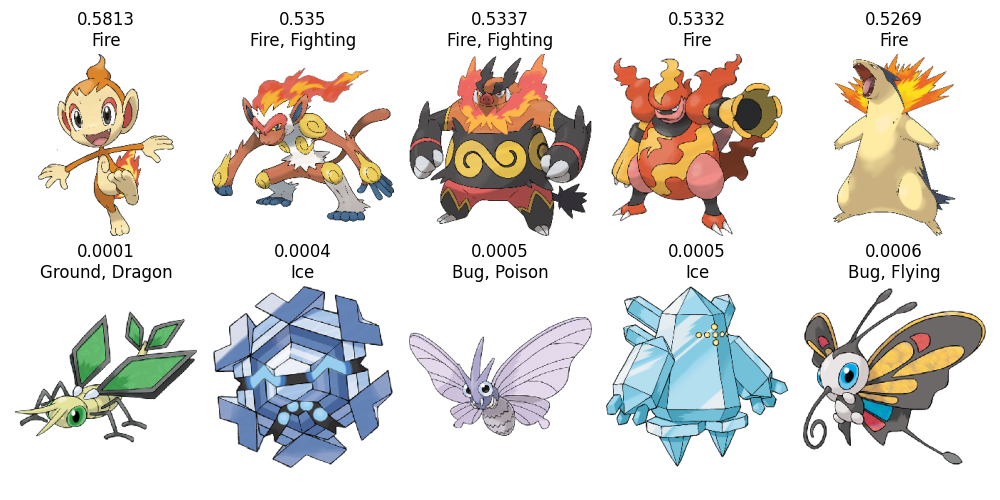
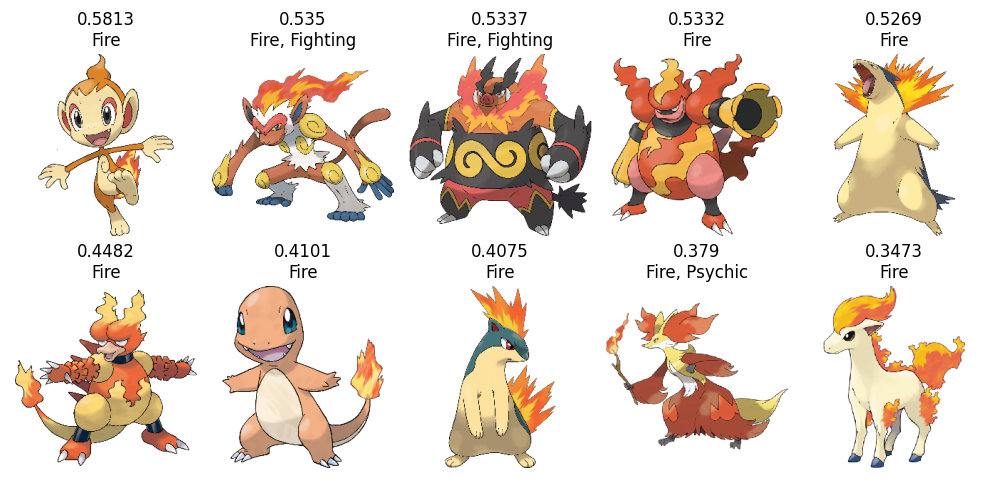
done

Changed region(s): [[0.0, 0.48, 0.992, 0.93]]

diff --git a/figures.py b/figures.py
@@ -45,7 +45,9 @@ def peek_at_classes():
     preds = pd.read_csv(PREDS_PATH)
 
     for cls in classes:
-        cls_preds = pd.concat((preds[cls].sort_values()[-5:][::-1], preds[cls].sort_values()[:5]))
+
+        # cls_preds = pd.concat((preds[cls].sort_values()[-5:][::-1], preds[cls].sort_values()[:5]))
+        cls_preds = preds[cls].sort_values()[-10:][::-1]
         fig, axs = plt.subplots(2, 5, figsize=(10, 5))
 
         for (idx, prob), ax in zip(cls_preds.iteritems(), axs.flatten()):
@@ -60,32 +62,30 @@ def peek_at_classes():
         plt.savefig(os.path.join("figs", f"{cls}_preds_preview.png"))
 
 
-def peek_at_pokemon():
-    pkm_idxs = [0, 3, 6, 24]  # pikachu
+def peek_at_pokemons():
+    pkm_idxs, cls = [170, 256, 53, 86, 115], "Water"
+    # pkm_idxs, cls = [387, 125, 76, 145], "Fire"
     dataset = PokemonDataset()
 
-    for pkm_idx in pkm_idxs:
+    fig, axs = plt.subplots(2, len(pkm_idxs), figsize=(14, 6))
+
+    for idx, pkm_idx in enumerate(pkm_idxs):
         pkm_img, pkm_labs = dataset[pkm_idx]
         pkm_labs = ', '.join([l for l in pkm_labs if l])
         pred = pd.read_csv(PREDS_PATH).iloc[pkm_idx]
         pred_clses = pred.keys()[1:]
         pred_vals = pred.to_numpy()[1:]
 
-        fig, axs = plt.subplots(1, 2)
-        axs[0].imshow(pkm_img)
-        axs[0].set_title(pkm_labs)
-        axs[0].axis('off')
+        axs[0, idx].imshow(pkm_img)
+        axs[0, idx].set_title(pkm_labs)
+        axs[0, idx].axis('off')
 
-        axs[1].barh(pred_clses, pred_vals, align='center')
-        axs[1].set_yticks(np.arange(len(pred_clses)))
-        axs[1].set_yticklabels(pred_clses)
+        axs[1, idx].barh(pred_clses, pred_vals, align='center')
+        axs[1, idx].set_yticks(np.arange(len(pred_clses)))
+        axs[1, idx].set_yticklabels(pred_clses)
 
-        fig.tight_layout()
-        plt.savefig(os.path.join("figs", f"{pkm_idx}_preview.png"))
+    fig.tight_layout()
+    plt.savefig(os.path.join("figs", f"{cls}_pokemons_preview.png"))
 
-# clean_pokedex()
-# dataset_preview()
-# print(metrics)
-# count_type_reprs()
-# count_single_types()
-peek_at_pokemon()
+
+peek_at_pokemons()

diff --git a/README.md b/README.md
@@ -28,18 +28,17 @@ some of our Pocket Monsters have  subtle features which could give a human hint 
 
 Random chance of guessing is around 9%  while CLIP achieves 25%, what we calculated as average of accuracies among each case of one (20,2%) and two-types (27,6%) pocket monsters.
 
-For each class we checked, which Pokemons are most and least representative from perspective of CLIP.
-Here is example for ice type:
+We checked what CLIP perceives as most and least representative for each type. Additionaly we took a closer look at specific Pokemons odds. 
+Here is an example for grass type:
+![](figs/Grass_preds_preview.png?raw=true)
+It looks like it have solid understanding what these concepts are as it produces reasonable and confident predictions.
 
-![dataset_preview](figs/Ice_preds_preview.png?raw=true)
+For the fire type, situation is a bit different. Although it recognizes well, it is significantly less confident what we see as strange because of obvious flame marks.
+![](figs/Fire_preds_preview.png?raw=true)
+![](figs/Fire_pokemons_preview.png?raw=true)
 
-and for fire:
+With the water type CLIP failed to associate any Pokemon:
+![](figs/Water_preds_preview.png?raw=true)
+![](figs/Water_pokemons_preview.png?raw=true)
 
-![dataset_preview](figs/Fire_preds_preview.png?raw=true)
-
-Additionaly, we peeked at specific Pokemons - what odds for belonging CLIP sees:
-
-![dataset_preview](figs/0_preview.png?raw=true)
-![dataset_preview](figs/3_preview.png?raw=true)
-![dataset_preview](figs/6_preview.png?raw=true)
-![dataset_preview](figs/24_preview.png?raw=true)
+Overall we grade CLIP for a 3+ taking into account the task was hard.
